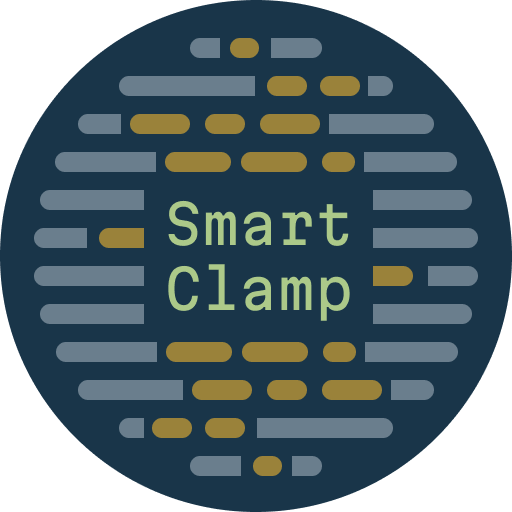
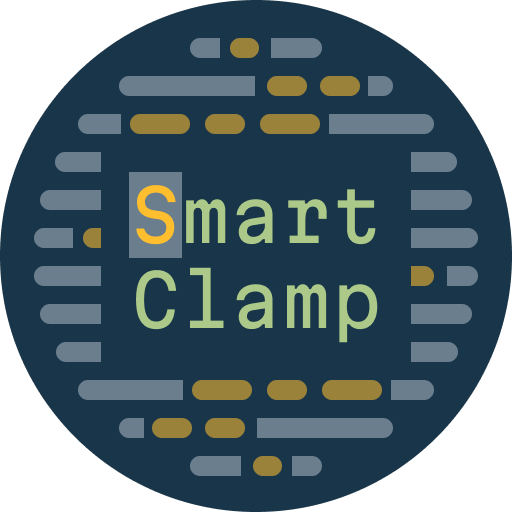
Prepare for initial stable release (v1.0.0)
- Update CHANGELOG to mark version 1.0.0
- Change default precision setting from 4 to 2 decimal places
- Update extension logo

Changed region(s): [[0.125, 0.2812, 0.875, 0.7188]]

diff --git a/CHANGELOG.md b/CHANGELOG.md
@@ -2,6 +2,10 @@
 
 All notable changes to the "smartclamp" extension will be documented in this file.
 
+## 1.0.0
+
+- Initial stable release
+
 ## 0.1.4
 
 - Logo update
